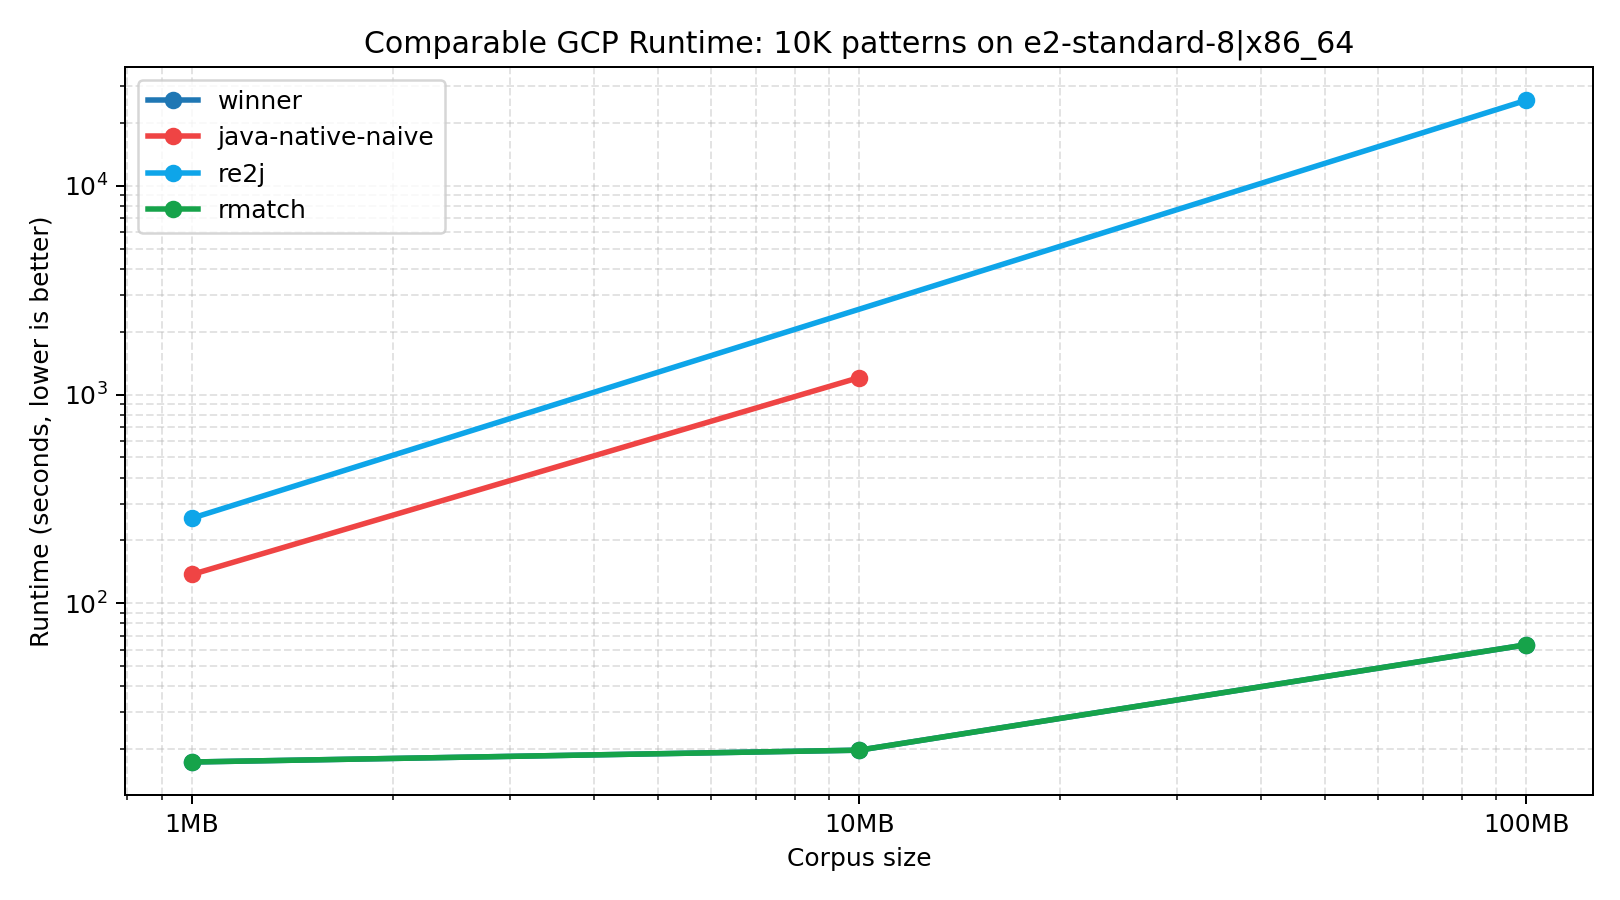
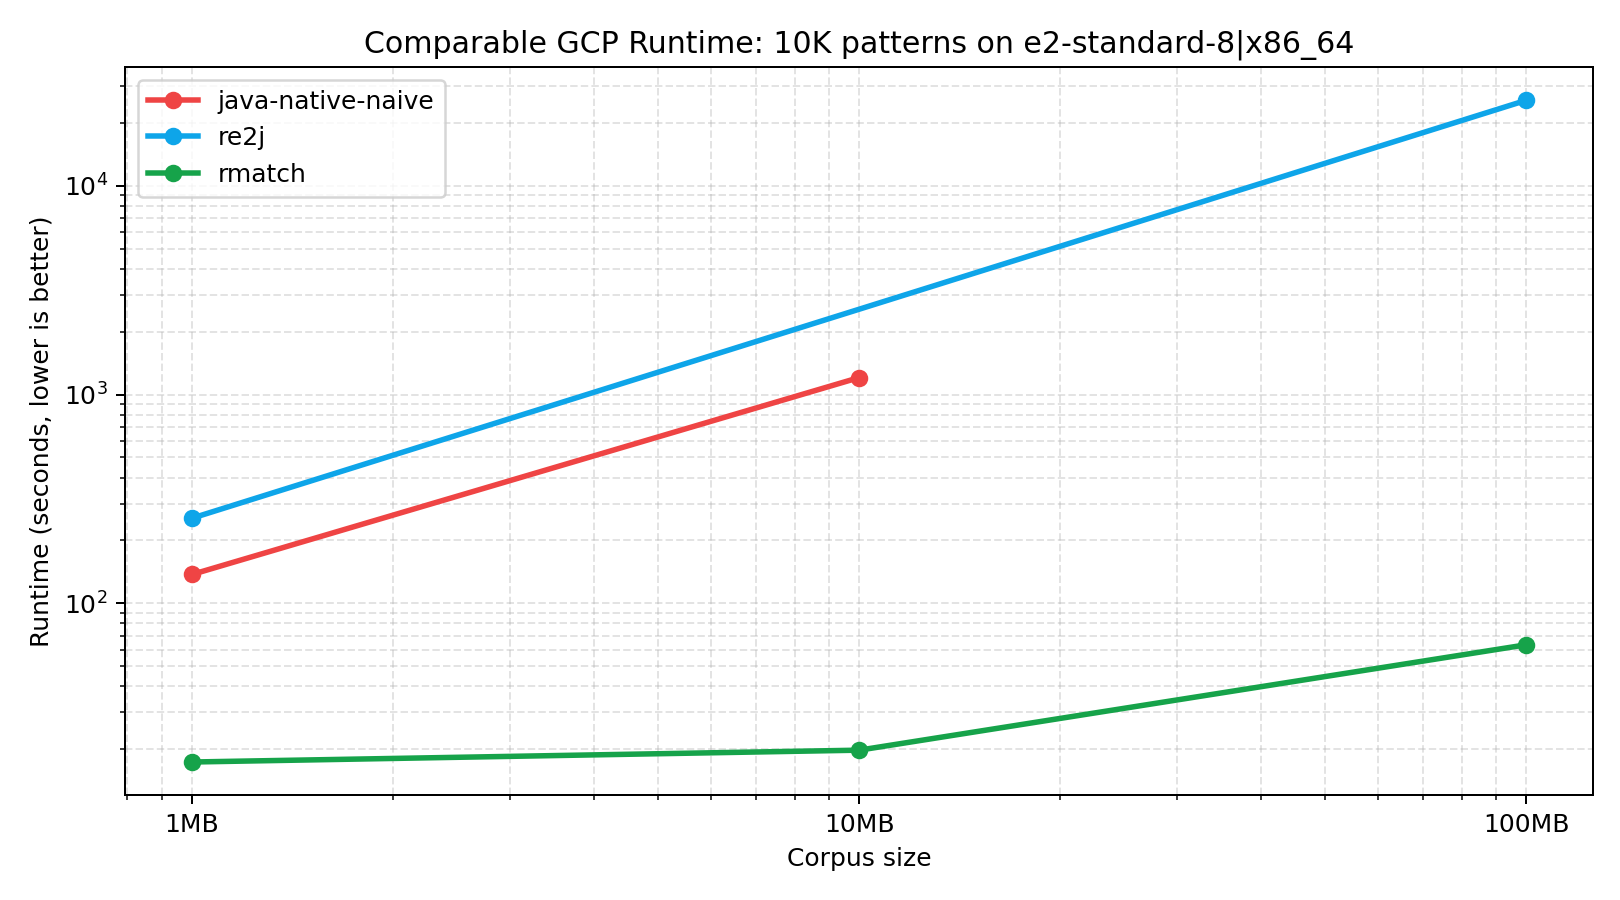
Fix snapshot plots to exclude synthetic winner series

Changed region(s): [[0.0926, 0.0933, 0.2778, 0.2489]]

diff --git a/scripts/generate_readme_gcp_snapshot.py b/scripts/generate_readme_gcp_snapshot.py
@@ -42,8 +42,9 @@ def _load_rows(matrix_csv: Path, cohort: str, patterns: int) -> tuple[list[Row],
         raise RuntimeError(f"No rows found in {matrix_csv}")
 
     total_cols = [c for c in all_rows[0].keys() if c.endswith("_total_ms")]
+    engine_total_cols = [c for c in total_cols if c != "winner_total_ms"]
     ratio_cols = [c for c in all_rows[0].keys() if c.endswith("_x_vs_winner")]
-    engines = [c.replace("_total_ms", "") for c in total_cols]
+    engines = [c.replace("_total_ms", "") for c in engine_total_cols]
 
     rows: list[Row] = []
     for raw in all_rows:
@@ -53,7 +54,7 @@ def _load_rows(matrix_csv: Path, cohort: str, patterns: int) -> tuple[list[Row],
             continue
 
         totals: dict[str, float] = {}
-        for col in total_cols:
+        for col in engine_total_cols:
             value = _parse_float(raw.get(col, ""))
             if value is not None:
                 totals[col.replace("_total_ms", "")] = value
